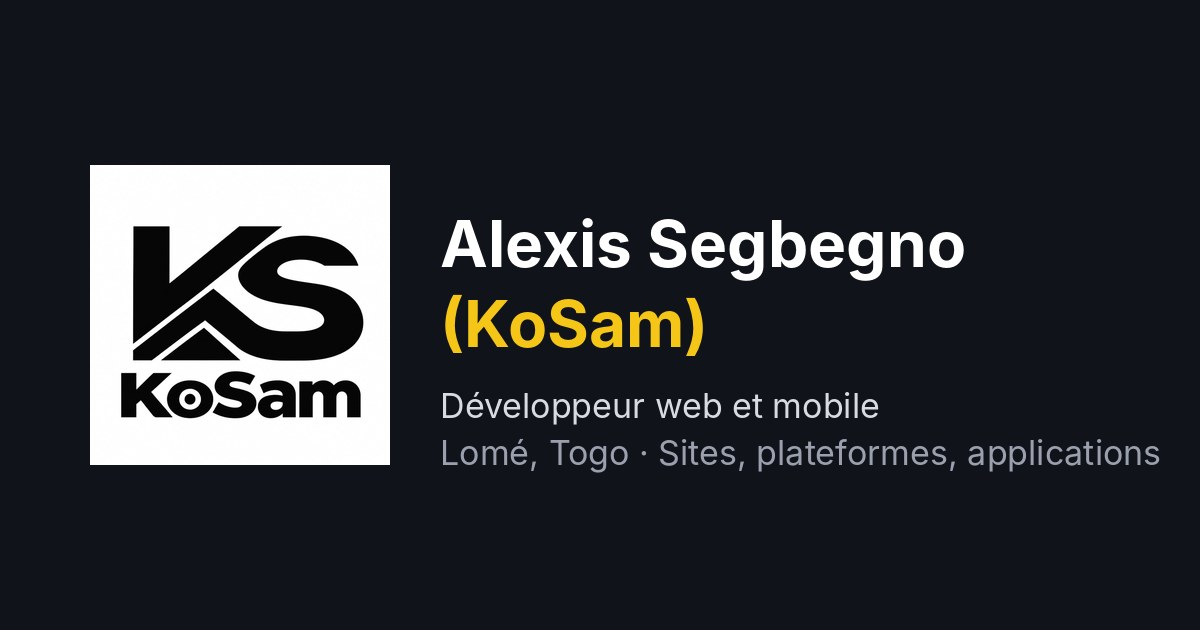
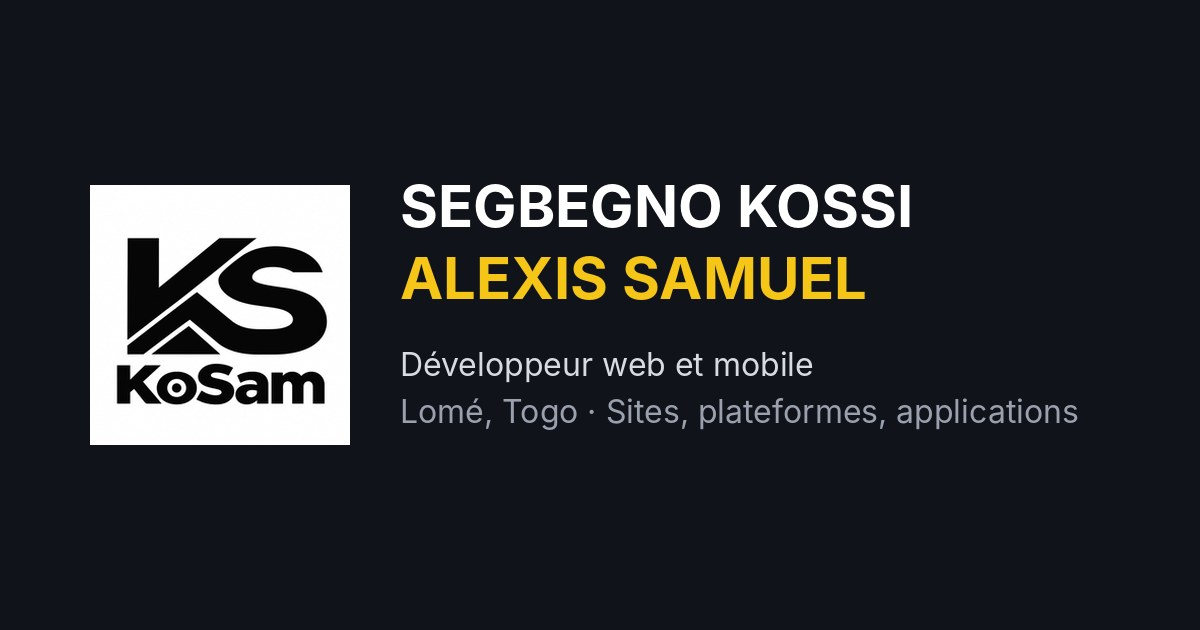
SEO

Changed region(s): [[0.0617, 0.2413, 0.9558, 0.754]]

diff --git a/index.html b/index.html
@@ -8,8 +8,8 @@
   <link rel="canonical" href="https://samtompkins17.github.io/Portfolio_kosam/">
   <link rel="icon" type="image/png" sizes="32x32" href="assets/images/favicon-32.png">
   <link rel="apple-touch-icon" href="assets/images/apple-touch-icon.png">
-  <meta name="description" content="Alexis Segbegno, développeur web et mobile à Lomé (Togo). Plateformes, sites vitrines et applications sur mesure.">
-  <title>Alexis Segbegno (KoSam) | Développeur web et mobile à Lomé</title>
+  <meta name="description" content="SEGBEGNO KOSSI ALEXIS SAMUEL, développeur web et mobile à Lomé (Togo). Plateformes, sites vitrines et applications sur mesure.">
+  <title>SEGBEGNO KOSSI ALEXIS SAMUEL | Développeur web et mobile à Lomé</title>
   <meta property="og:type" content="website">
   <meta property="og:locale" content="fr_FR">
   <meta property="og:site_name" content="KoSam">
@@ -17,11 +17,11 @@
   <meta property="og:image" content="https://samtompkins17.github.io/Portfolio_kosam/assets/images/og-image.jpg">
   <meta property="og:image:width" content="1200">
   <meta property="og:image:height" content="630">
-  <meta property="og:image:alt" content="Alexis Segbegno (KoSam), développeur web et mobile à Lomé">
-  <meta property="og:title" content="Alexis Segbegno (KoSam) | Développeur web et mobile à Lomé">
+  <meta property="og:image:alt" content="SEGBEGNO KOSSI ALEXIS SAMUEL (KoSam), développeur web et mobile à Lomé">
+  <meta property="og:title" content="SEGBEGNO KOSSI ALEXIS SAMUEL | Développeur web et mobile à Lomé">
   <meta property="og:description" content="Sites vitrines, plateformes et applications sur mesure, de la maquette à la mise en ligne. Disponible pour de nouveaux projets.">
   <meta name="twitter:card" content="summary_large_image">
-  <meta name="twitter:title" content="Alexis Segbegno (KoSam) | Développeur web et mobile à Lomé">
+  <meta name="twitter:title" content="SEGBEGNO KOSSI ALEXIS SAMUEL | Développeur web et mobile à Lomé">
   <meta name="twitter:description" content="Sites vitrines, plateformes et applications sur mesure, de la maquette à la mise en ligne.">
   <meta name="twitter:image" content="https://samtompkins17.github.io/Portfolio_kosam/assets/images/og-image.jpg">
   <link rel="preconnect" href="https://fonts.googleapis.com">
@@ -34,8 +34,10 @@
       {
         "@type": "Person",
         "@id": "https://samtompkins17.github.io/Portfolio_kosam/#person",
-        "name": "Alexis Segbegno",
-        "alternateName": ["KoSam", "Segbegno Kossi Alexis Samuel"],
+        "name": "SEGBEGNO KOSSI ALEXIS SAMUEL",
+        "givenName": "Kossi Alexis Samuel",
+        "familyName": "Segbegno",
+        "alternateName": ["Alexis Segbegno", "KoSam"],
         "jobTitle": "Développeur web et mobile",
         "url": "https://samtompkins17.github.io/Portfolio_kosam/",
         "image": "https://samtompkins17.github.io/Portfolio_kosam/assets/images/portrait.webp",
@@ -97,7 +99,7 @@
 </div>
 <div class="stage">
 <div class="halo"></div>
-<div class="me"><img src="assets/images/portrait.webp" width="408" height="612" fetchpriority="high" decoding="async" alt="Portrait d’Alexis Segbegno, développeur web et mobile à Lomé"></div>
+<div class="me"><img src="assets/images/portrait.webp" width="408" height="612" fetchpriority="high" decoding="async" alt="Portrait de SEGBEGNO KOSSI ALEXIS SAMUEL, développeur web et mobile à Lomé"></div>
 </div>
 </div>
 
@@ -127,6 +129,11 @@
 <div class="laptop"><div class="lid"><div class="bz"><div class="notch"></div><div class="scr" id="scr"></div></div></div><div class="base"></div></div>
 <p class="cap">Maquette illustrative</p>
 </div>
+</div>
+<div class="proj-text">
+<article><h3>Bidè Entreprise</h3><p>Site vitrine, espace client avec suivi de commande et tableau de bord administrateur pour un pressing à domicile de Lomé.</p><p class="pt-stack">Bootstrap 5 · JavaScript</p></article>
+<article><h3>EduPaie</h3><p>Application de bureau de suivi des frais de scolarité : élèves, paiements, soldes et reçus PDF numérotés.</p><p class="pt-stack">PySide6 · SQLite</p></article>
+<article><h3>AGRI-TOGO</h3><p>Site d’une coopérative agricole togolaise : produits, actualités et contact.</p><p class="pt-stack">HTML · CSS · JavaScript</p></article>
 </div>
 </div></section>
 

diff --git a/assets/css/style.css b/assets/css/style.css
@@ -986,3 +986,10 @@ footer .big.glitch{animation:bigGlitch .45s steps(1) 1}
 .avail .ad::after{content:"";position:absolute;inset:-4px;border-radius:50%;border:2px solid #22c55e;opacity:.6;animation:avPulse 2s ease-out infinite}
 @keyframes avPulse{0%{transform:scale(.6);opacity:.8}100%{transform:scale(1.7);opacity:0}}
 @media (prefers-reduced-motion:reduce){.avail .ad::after{animation:none}}
+
+/* Descriptions de projets (texte indexable) */
+.proj-text{display:grid;grid-template-columns:repeat(auto-fit,minmax(220px,1fr));gap:16px;margin-top:32px}
+.proj-text article{padding:18px 20px;border:1px solid currentColor;border-color:color-mix(in srgb,currentColor 18%,transparent);border-radius:12px}
+.proj-text h3{margin:0 0 8px;font-size:1.05rem}
+.proj-text p{margin:0 0 8px;font-size:.95rem;line-height:1.55;opacity:.85}
+.proj-text .pt-stack{margin:0;font-size:.8rem;opacity:.6}

diff --git a/README.md b/README.md
@@ -30,3 +30,7 @@ Ouvrir `index.html` dans un navigateur. Pour un environnement local, un petit se
 
 ## Logo
 Le logo officiel fourni est intégré dans l’en-tête via `assets/images/kosam-logo.png`.
+
+## SEO
+- `canonical`, Open Graph, Twitter Card et JSON-LD dans `index.html`.
+- `sitemap.xml` et `robots.txt` à la racine ; remplacer l’URL du site si le domaine change.
